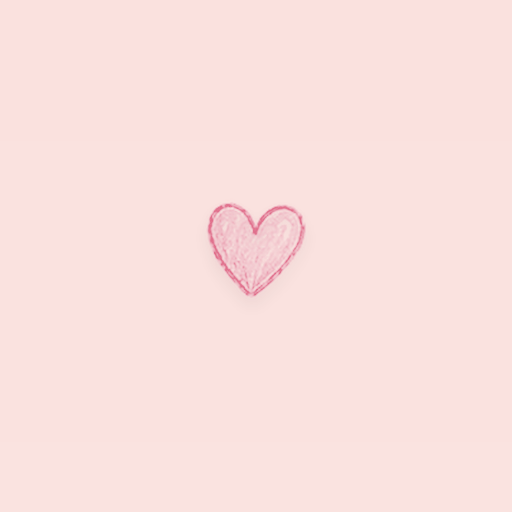
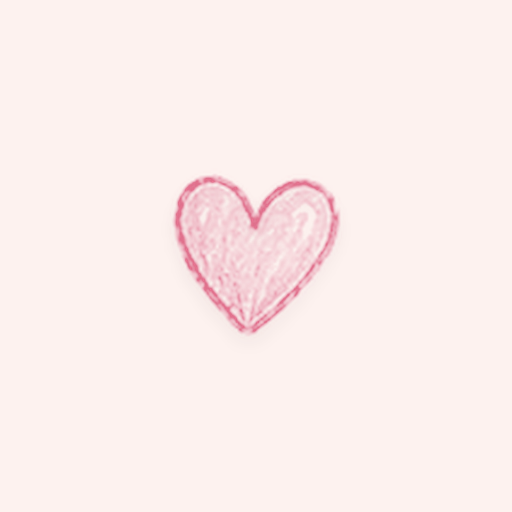
Add files via upload

Changed region(s): [[0.3438, 0.3438, 0.6875, 0.6562]]

diff --git a/index.html b/index.html
@@ -6,9 +6,9 @@
 <meta name="theme-color" content="#FDF2EF">
 <title>Клаптик — нотатки</title>
 <meta name="description" content="Нотатки з емодзі, власними категоріями та списками.">
-<link rel="manifest" href="./manifest.json">
-<link rel="icon" href="./icons/favicon.png">
-<link rel="apple-touch-icon" href="./icons/apple-touch-icon.png">
+<link rel="manifest" href="manifest.webmanifest">
+<link rel="icon" href="favicon.png">
+<link rel="apple-touch-icon" href="icon-192.png">
 <meta name="mobile-web-app-capable" content="yes">
 <meta name="apple-mobile-web-app-capable" content="yes">
 <meta name="apple-mobile-web-app-status-bar-style" content="default">
@@ -256,6 +256,17 @@ textarea.f-text::placeholder{color:var(--ink-faint)}
 .theme .prev{width:26px;height:26px;border-radius:50%;flex:0 0 auto;
   box-shadow:inset 0 0 0 1px rgba(0,0,0,.06)}
 .theme span{font-family:'Comfortaa',sans-serif;font-size:12.5px;font-weight:500;color:var(--ink)}
+.diag{margin-top:4px;padding:6px 14px;border-radius:16px;background:#fff;
+  border:1.5px solid var(--rose-mist);font-size:13px}
+.diag .row2{display:flex;align-items:flex-start;gap:9px;padding:8px 0;
+  border-bottom:1px solid var(--rose-mist)}
+.diag .row2:last-child{border-bottom:0}
+.diag .st{flex:0 0 auto;width:18px;text-align:center;font-weight:700}
+.diag .ok{color:#4FA689}
+.diag .no{color:#D96A85}
+.diag .wt{color:var(--ink-faint)}
+.diag .tx{flex:1;color:var(--ink-soft);line-height:1.45}
+.diag b{font-weight:700;color:var(--ink)}
 .about{margin-top:6px;padding:13px 15px;border-radius:16px;background:#fff;
   border:1.5px solid var(--rose-mist);font-size:13.5px;color:var(--ink-soft)}
 .about b{font-family:'Caveat',cursive;font-size:20px;color:var(--rose-deep);font-weight:600}
@@ -623,7 +634,7 @@ function hearts(x,y){
 }
 
 /* ============ themes ============ */
-const APP_VERSION='1.1';
+const APP_VERSION='1.2';
 const THEMES={
   rose:{name:'Пудрова',dot:'#E88AA0',vars:{
     '--paper':'#FDF2EF','--paper-2':'#FFF9F8','--card':'#FFFDFC',
@@ -666,6 +677,57 @@ function applyTheme(key){
 }
 applyTheme(S.theme||'rose');
 
+/* ============ діагностика встановлення ============ */
+async function runDiag(box){
+  const rows=[];
+  const add=(st,txt)=>rows.push(`<div class="row2"><span class="st ${st}">${st==='ok'?'✓':st==='no'?'✕':'•'}</span><span class="tx">${txt}</span></div>`);
+
+  const https=location.protocol==='https:'||location.hostname==='localhost';
+  add(https?'ok':'no', https
+    ? `відкрито як сайт (<b>${location.protocol.replace(':','')}</b>)`
+    : `відкрито як файл (<b>${location.protocol.replace(':','')}</b>) — з такого джерела браузер НЕ встановлює застосунок, лише зберігає посилання. Треба покласти файли на GitHub Pages і відкрити адресу https://…`);
+
+  // manifest
+  let man=null;
+  try{
+    const r=await fetch('manifest.webmanifest',{cache:'no-store'});
+    if(!r.ok)throw new Error(r.status);
+    man=await r.json();
+    add('ok','manifest знайдено');
+  }catch(e){
+    add('no','manifest.webmanifest не читається — переконайся, що файл лежить поруч з index.html');
+  }
+
+  // icons
+  if(man){
+    let bad=[];
+    for(const i of man.icons){
+      try{const r=await fetch(i.src,{cache:'no-store'});if(!r.ok)bad.push(i.src)}catch(e){bad.push(i.src)}
+    }
+    add(bad.length?'no':'ok', bad.length
+      ? `не знайдено іконки: <b>${bad.join(', ')}</b> — саме через це Chrome відмовляється встановлювати`
+      : `усі ${man.icons.length} іконки на місці`);
+  }
+
+  // service worker
+  if(!('serviceWorker' in navigator)){
+    add('no','браузер не підтримує service worker');
+  }else{
+    try{
+      const rs=await navigator.serviceWorker.getRegistrations();
+      add(rs.length?'ok':'no', rs.length
+        ? 'service worker зареєстровано'
+        : (https?'service worker ще не зареєстрований — перезавантаж сторінку':'service worker не працює з локального файлу'));
+    }catch(e){ add('no','service worker недоступний'); }
+  }
+
+  const standalone=matchMedia('(display-mode: standalone)').matches||navigator.standalone;
+  if(standalone)add('ok','застосунок уже запущено встановленим');
+  else if(deferredPrompt)add('ok','усе готово — кнопка «встановити» у шапці активна');
+
+  box.innerHTML=rows.join('');
+}
+
 /* ============ settings ============ */
 function settingsSheet(){
   const v=modal(`
@@ -693,7 +755,12 @@ function settingsSheet(){
         <div class="line"><span>нотаток</span><b>${S.notes.length}</b></div>
         <div class="line"><span>категорій</span><b>${S.categories.length}</b></div>
       </div>
+      <span class="label">чи встановиться</span>
+      <div class="diag" id="diag">
+        <div class="row2"><span class="st wt">…</span><span class="tx">перевіряю</span></div>
+      </div>
       <button class="add-item" id="refresh" style="margin-top:10px">↻ перевірити оновлення</button>`;
+    runDiag(b.querySelector('#diag'));
     b.querySelectorAll('[data-t]').forEach(x=>x.onclick=()=>{
       S.theme=x.dataset.t;save();applyTheme(S.theme);paint();
     });
@@ -732,7 +799,7 @@ $('#installBtn').onclick=async()=>{
 addEventListener('appinstalled',()=>{$('#installBtn').style.display='none'});
 
 if('serviceWorker' in navigator && location.protocol.startsWith('http')){
-  addEventListener('load',()=>navigator.serviceWorker.register('./sw.js').catch(()=>{}));
+  addEventListener('load',()=>navigator.serviceWorker.register('sw.js').catch(()=>{}));
 }
 </script>
 </body>

diff --git a/sw.js b/sw.js
@@ -1,17 +1,16 @@
 /* Піднімай версію нижче щоразу, коли міняється index.html,
    інакше телефон і далі показуватиме стару копію. */
-const CACHE_VERSION = "klaptyk-v3";
+const CACHE_VERSION = "klaptyk-v4";
 
 const CORE = [
   "./",
   "./index.html",
-  "./manifest.json",
-  "./icons/icon-192.png",
-  "./icons/icon-512.png",
-  "./icons/icon-maskable-192.png",
-  "./icons/icon-maskable-512.png",
-  "./icons/apple-touch-icon.png",
-  "./icons/favicon.png"
+  "./manifest.webmanifest",
+  "./icon-192.png",
+  "./icon-512.png",
+  "./icon-192-maskable.png",
+  "./icon-512-maskable.png",
+  "./favicon.png"
 ];
 
 self.addEventListener("install", e => {

diff --git a/ЯК-ВСТАНОВИТИ.md b/ЯК-ВСТАНОВИТИ.md
@@ -1,45 +1,50 @@
 # Клаптик — як поставити на телефон
 
-У папці лежать:
+У папці лежать файли — **усі разом, в одній теці, без підпапок**, точно як у «Диханні».
+Якщо хоч одна іконка не доїде, Chrome відмовиться встановлювати застосунок.
 
 ```
 index.html
-manifest.json
+manifest.webmanifest
 sw.js
-icons/
+icon-192.png
+icon-512.png
+icon-192-maskable.png
+icon-512-maskable.png
+favicon.png
+apple-touch-icon.png
 ```
 
-Усі вони мають лежати **разом, в одній теці** — інакше не буде ні іконки, ні офлайну.
+## Встановлення
 
-## Встановлення (GitHub Pages, як у «Диханні»)
+Установлення вимагає адреси `https://`. З локального файлу браузер завжди пропонує лише
+«зберегти посилання» — це не помилка застосунку, це правило браузера.
 
-Установлення вимагає адреси `https://` — з локального файлу браузер пропонує лише
-«зберегти посилання», без власної іконки.
-
-1. Створи репозиторій, наприклад `klaptyk`, і завантаж туди весь вміст цієї папки
-   (разом з текою `icons/`).
+1. Створи репозиторій, наприклад `klaptyk`, і завантаж туди **всі файли** — так, щоб вони
+   лежали в корені репозиторію, а не всередині ще однієї папки.
 2. Settings → Pages → Branch: `main`, папка `/ (root)` → Save.
 3. За хвилину сторінка буде за адресою `https://<твій-нік>.github.io/klaptyk/`.
-4. Відкрий цю адресу в Chrome на телефоні. У шапці застосунку зʼявиться кнопка
-   **«＋ встановити застосунок»** — тисни її. Або меню ⋮ → «Додати на головний екран».
+4. Відкрий цю адресу в Chrome на телефоні. У шапці зʼявиться кнопка
+   **«＋ встановити застосунок»**, або меню ⋮ → «Встановити застосунок».
 
-На iPhone: Safari → «Поділитися» → «На екран Домівки». Кнопки «Встановити» там немає,
-це особливість Safari.
+На iPhone: Safari → «Поділитися» → «На екран Домівки».
 
-Після встановлення «Клаптик» стоїть окремою іконкою з рожевим серцем, відкривається на
-весь екран без адресного рядка і **працює без інтернету**.
+## Якщо не встановлюється
+
+Відкрий шестерню вгорі справа → блок **«чи встановиться»**. Він перевіряє все по черзі
+й показує, що саме не так:
+
+- **відкрито як файл** — сторінка не на хостингу, встановлення неможливе;
+- **не знайдено іконки** — якийсь png не долетів на хостинг або лежить у підпапці;
+- **manifest не читається** — `manifest.webmanifest` не поруч з `index.html`;
+- **service worker не зареєстрований** — перезавантаж сторінку раз.
+
+Скажи мені, який рядок світиться червоним — і я одразу знатиму, що виправляти.
 
 ## Якщо захочеш оновити застосунок
 
-Коли я зроблю нову версію:
-
 1. Заміни файли на хостингу.
-2. У `sw.js` зміни рядок `CACHE_VERSION = "klaptyk-v1"` на `v2`
-   (інакше телефон показуватиме стару версію з памʼяті).
-3. На телефоні закрий застосунок і відкрий знову.
+2. У `sw.js` зміни `CACHE_VERSION = "klaptyk-v4"` на `v5`.
+3. Або просто натисни в налаштуваннях **«↻ перевірити оновлення»**.
 
-Або просто: шестерня → **«↻ перевірити оновлення»**. Вона чистить кеш і перезавантажує
-застосунок, тож стара копія точно піде геть. Поточну версію видно там само.
-
-Нотатки при оновленні залишаються на місці — вони зберігаються окремо, у памʼяті
-пристрою. Синхронізації між пристроями немає.
+Поточну версію видно в налаштуваннях. Нотатки при оновленні залишаються на місці.
